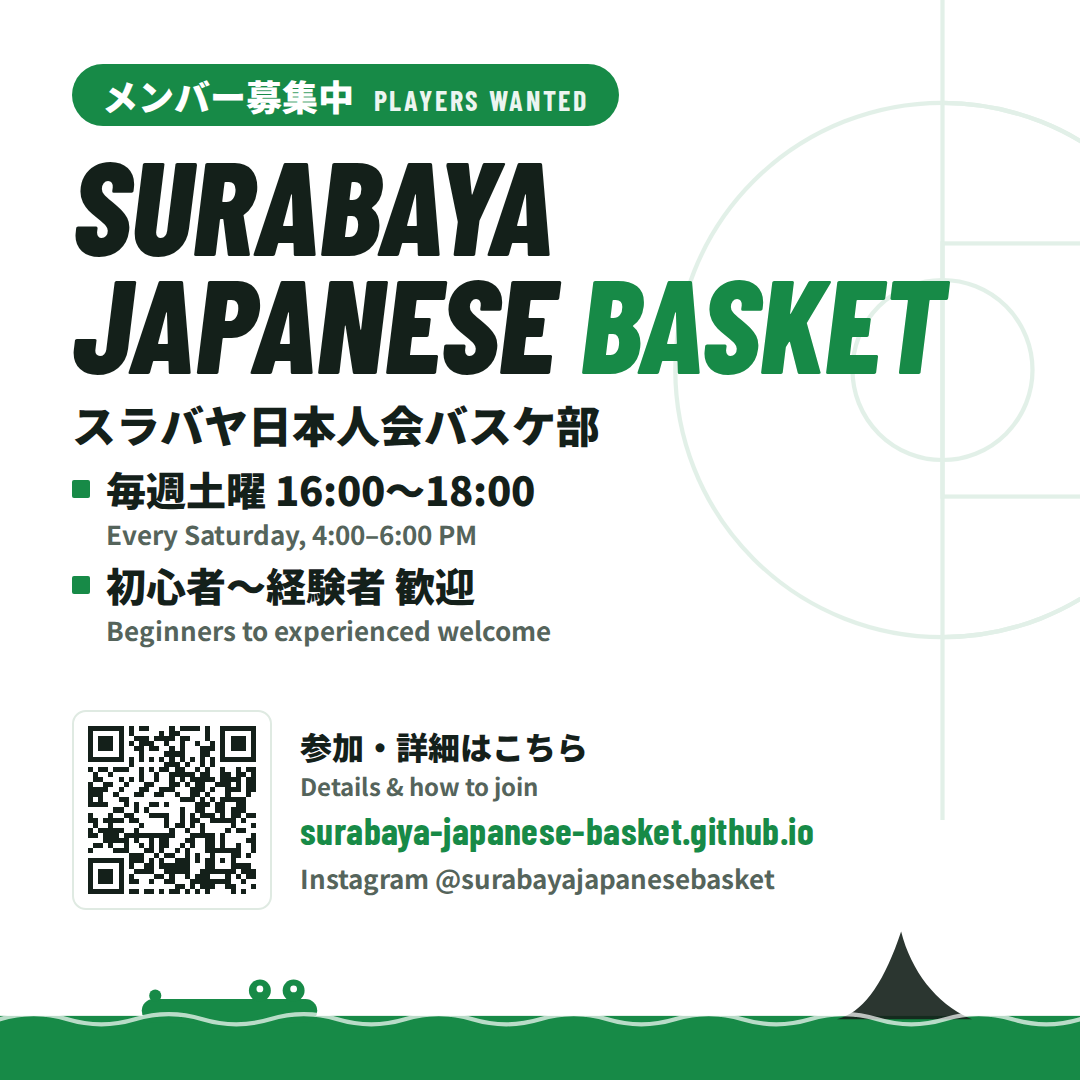
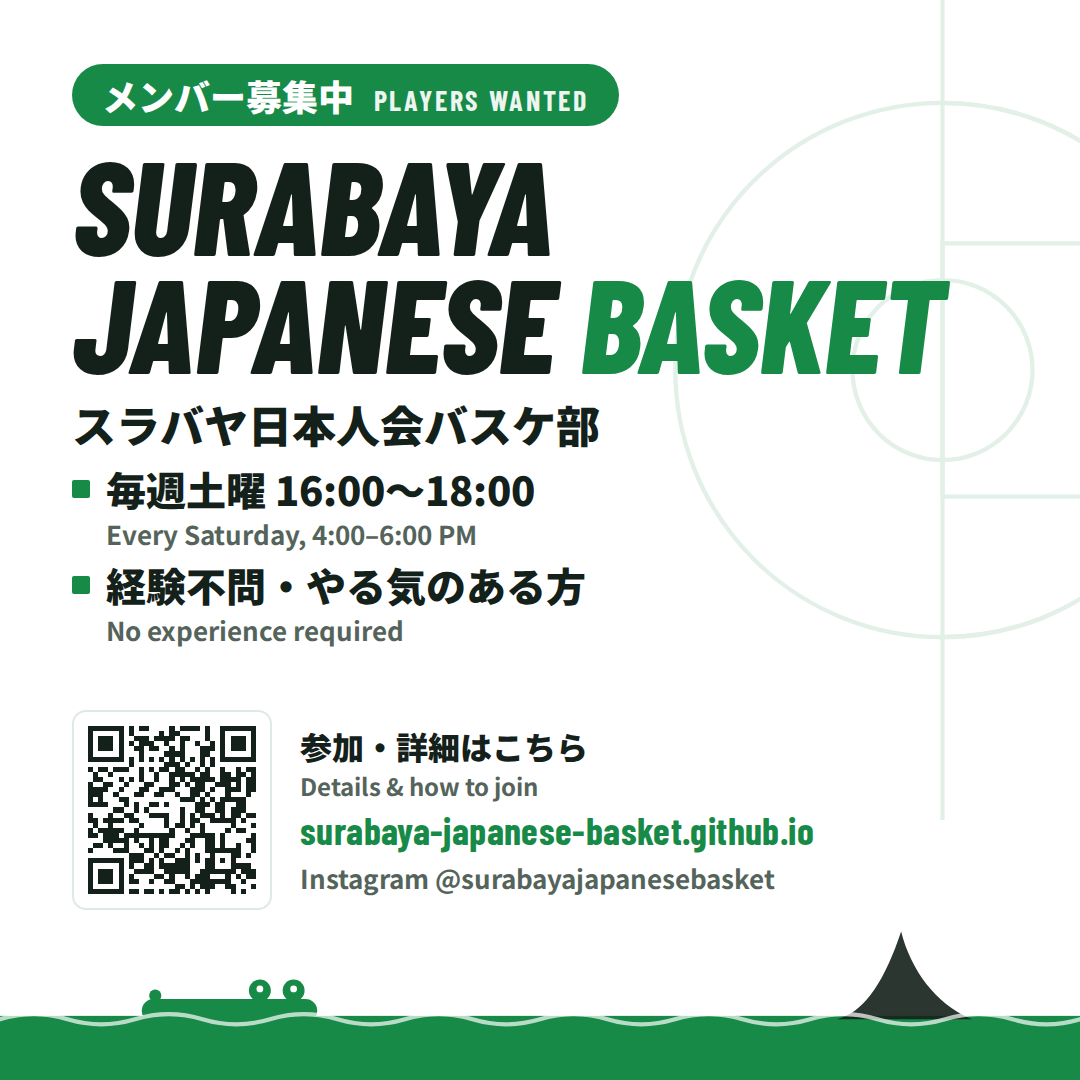
Reword the entry level as "experience not required"
Replace "beginners to experienced welcome" with wording that matches
how the club actually works: experience does not matter, motivated
newcomers stick with it, and nobody is turned away for being new.
Applies to the hero, About, FAQ, meta description and the banners.

Changed region(s): [[0.0917, 0.5194, 0.55, 0.6111]]

diff --git a/src/i18n/ui.ts b/src/i18n/ui.ts
@@ -17,13 +17,13 @@ export const ui = {
     siteName: 'スラバヤ日本人会バスケ部',
     title: 'スラバヤ日本人会バスケ部 | スラバヤ在住の日本人バスケチーム',
     description:
-      'インドネシア・スラバヤ在住の日本人バスケチーム。毎週土曜の夕方に練習しています。初心者から経験者まで、ゆるーく活動中。',
+      'インドネシア・スラバヤ在住の日本人バスケチーム。毎週土曜の夕方に練習しています。経験は問いません。やる気のある方、お待ちしています。',
     nav: { about: 'チーム紹介', join: '参加案内', faq: 'はじめての方へ', gallery: 'ギャラリー', contact: '連絡先', cta: '参加する' },
     hero: {
       badge: 'メンバー募集中',
       eyebrow: 'Surabaya Japanese Basket',
       heading: 'スラバヤで、\nゆるく楽しくバスケ。',
-      lead: 'スラバヤ在住の日本人バスケチームです。毎週土曜の夕方に練習しています。初心者から経験者まで、一緒にプレーしてくれる仲間を募集中です。',
+      lead: 'スラバヤ在住の日本人バスケチームです。毎週土曜の夕方に練習しています。経験は問いません。やる気のある仲間を募集中です。',
       photoAlt: 'バスケの試合後に、日本人メンバーと対戦相手のみんなで撮った集合写真',
       cta: 'フォームで参加・見学を申込',
       ctaDm: 'Instagram の DM で相談',
@@ -35,7 +35,7 @@ export const ui = {
       heading: 'チーム紹介',
       body: [
         'インドネシア・スラバヤに住む日本人が集まって活動しているバスケットボールチームです。',
-        '年代は20代から50代まで。初めての方から経験者まで、ゆるーく楽しくプレーしています。',
+        '年代は20代から50代まで。経験もさまざまで、ゆるーく楽しくプレーしています。',
         'インドネシアの方も数名、一緒にプレーしています。',
         '人数が少ない日は、ハーフコートで楽しむこともあります。気負わず、気軽に遊びに来てください。',
         'スラバヤへの出張・旅行の際の参加も歓迎です。',
@@ -44,7 +44,7 @@ export const ui = {
         { label: '活動', value: '毎週土曜の夕方' },
         { label: '部員', value: '十数名' },
         { label: '年代', value: '20代〜50代' },
-        { label: 'レベル', value: '初心者〜経験者' },
+        { label: 'レベル', value: '経験不問' },
       ],
     },
     join: {
@@ -63,7 +63,7 @@ export const ui = {
       heading: 'はじめての方へ',
       lead: 'よくいただく質問です。ここにないことは、フォームか Instagram の DM でお気軽にどうぞ。',
       items: [
-        { q: '初心者でも大丈夫ですか？', a: '大丈夫です。初めての方から経験者まで、ゆるく楽しくプレーしています。' },
+        { q: '初心者でも大丈夫ですか？', a: '経験は問いません。やる気のある方なら、初心者でも続いています。未経験だからという理由で、お断りすることはありません。' },
         { q: 'ブランクがあっても大丈夫ですか？', a: '大丈夫です。ブランクのない人のほうが少ないくらいなので、久しぶりの方も気軽にどうぞ。' },
         { q: '何を持っていけばいいですか？', a: '動きやすい服装、体育館シューズ、飲み物があれば大丈夫です。' },
         { q: '参加費はいくらですか？', a: 'Rp 50,000 前後です。会場や人数によって変わります。' },
@@ -114,13 +114,13 @@ export const ui = {
     siteName: 'Surabaya Japanese Basket',
     title: 'Surabaya Japanese Basket | A friendly basketball team in Surabaya',
     description:
-      'A basketball team of Japanese residents in Surabaya, Indonesia. We practice every Saturday evening. Beginners to experienced players are all welcome.',
+      'A basketball team of Japanese residents in Surabaya, Indonesia. We practice every Saturday evening. No experience required. We are looking for motivated players.',
     nav: { about: 'About', join: 'Join us', faq: 'FAQ', gallery: 'Gallery', contact: 'Contact', cta: 'Join' },
     hero: {
       badge: 'Players wanted',
       eyebrow: 'Surabaya Japanese Basket',
       heading: 'Easygoing\nbasketball in Surabaya.',
-      lead: 'We are a basketball team of Japanese residents in Surabaya. We practice every Saturday evening, and we are looking for more players, from beginners to experienced.',
+      lead: 'We are a basketball team of Japanese residents in Surabaya. We practice every Saturday evening. No experience required, and we are looking for motivated players to join us.',
       photoAlt: 'A group photo of our members and the opposing team after a game',
       cta: 'Apply to join or visit',
       ctaDm: 'Message us on Instagram',
@@ -132,7 +132,7 @@ export const ui = {
       heading: 'About the team',
       body: [
         'We are a basketball team made up of Japanese residents living in Surabaya, Indonesia.',
-        'Our members are in their 20s to 50s, from first-timers to experienced players, and we play in a relaxed, friendly way.',
+        'Our members are in their 20s to 50s, with a mix of experience levels, and we play in a relaxed, friendly way.',
         'A few Indonesian players join us as well.',
         'On days when fewer people show up, we sometimes play half-court. No need to be nervous. Just come and join us.',
         'Visitors to Surabaya on business or travel are welcome to join, too.',
@@ -141,7 +141,7 @@ export const ui = {
         { label: 'When', value: 'Saturday evenings' },
         { label: 'Members', value: 'Over 10' },
         { label: 'Ages', value: '20s – 50s' },
-        { label: 'Level', value: 'Beginners to experienced' },
+        { label: 'Experience', value: 'Not required' },
       ],
     },
     join: {
@@ -160,7 +160,7 @@ export const ui = {
       heading: 'New here?',
       lead: 'Answers to common questions. If yours is not here, use the form or send us a DM on Instagram.',
       items: [
-        { q: 'Is it OK if I am a beginner?', a: 'Yes. Our members range from first-timers to experienced players, and we play in a relaxed, friendly way.' },
+        { q: 'Is it OK if I am a beginner?', a: 'Yes. Experience is not required. Newcomers who are keen to play tend to stick with it, and we do not turn anyone away for being a beginner.' },
         { q: 'What if I have not played in years?', a: 'No problem. Most of our members have had a break from basketball, so you will fit right in.' },
         { q: 'What should I bring?', a: 'Comfortable clothes, indoor court shoes, and a drink are all you need.' },
         { q: 'How much does it cost?', a: 'Around Rp 50,000. It varies by venue and turnout.' },

diff --git a/banners/template.html b/banners/template.html
@@ -135,7 +135,7 @@
       <p class="name">スラバヤ日本人会バスケ部</p>
       <ul class="facts">
         <li><span class="ja">毎週土曜 16:00〜18:00</span><span class="en-line">Every Saturday, 4:00–6:00 PM</span></li>
-        <li><span class="ja">初心者〜経験者 歓迎</span><span class="en-line">Beginners to experienced welcome</span></li>
+        <li><span class="ja">経験不問・やる気のある方</span><span class="en-line">No experience required</span></li>
       </ul>
     </div>
     <div class="cta">
